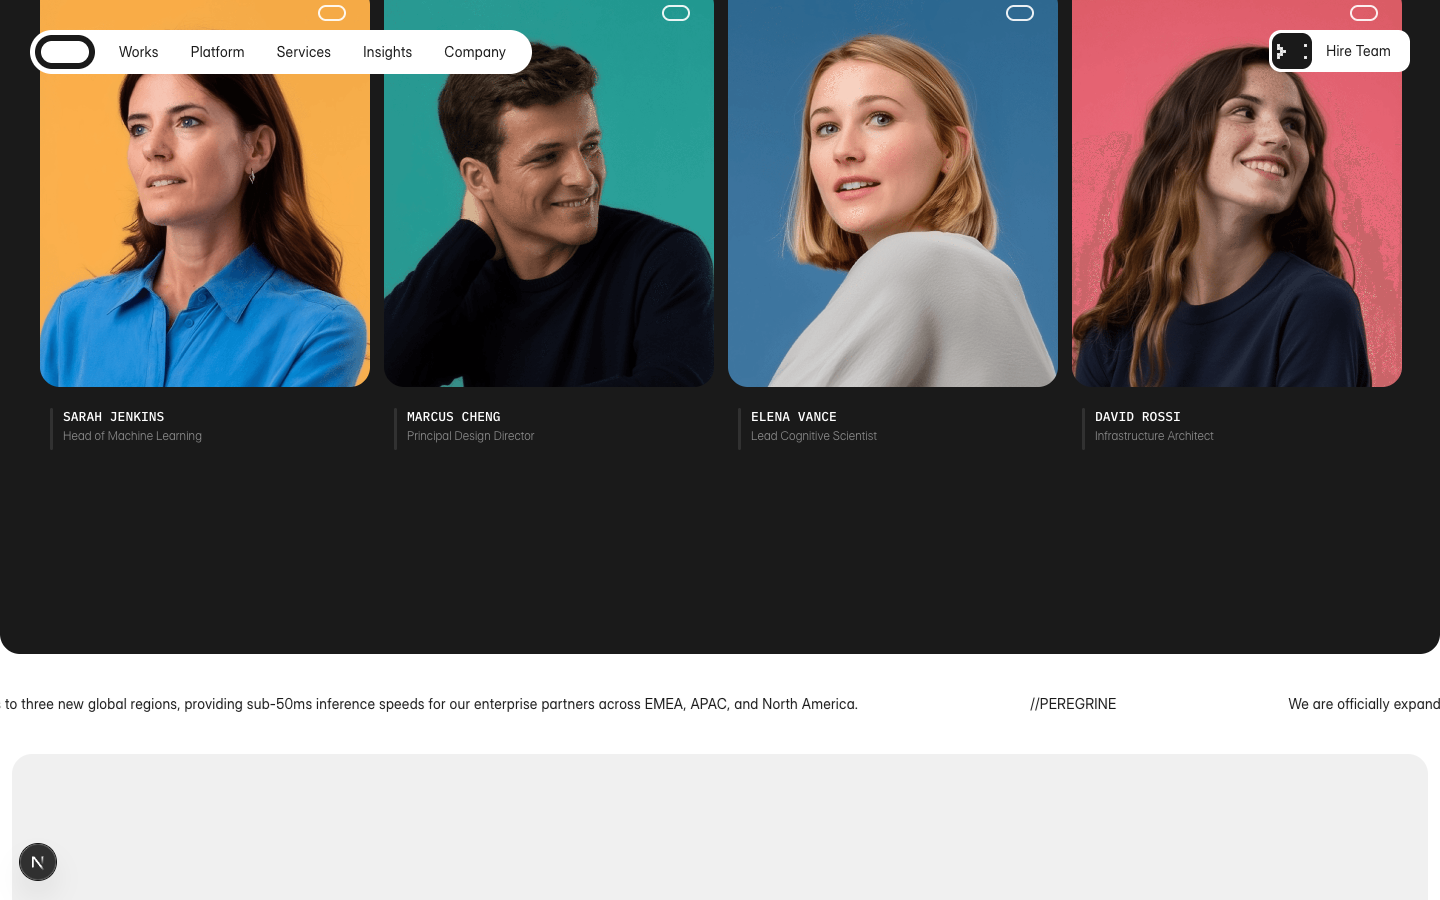
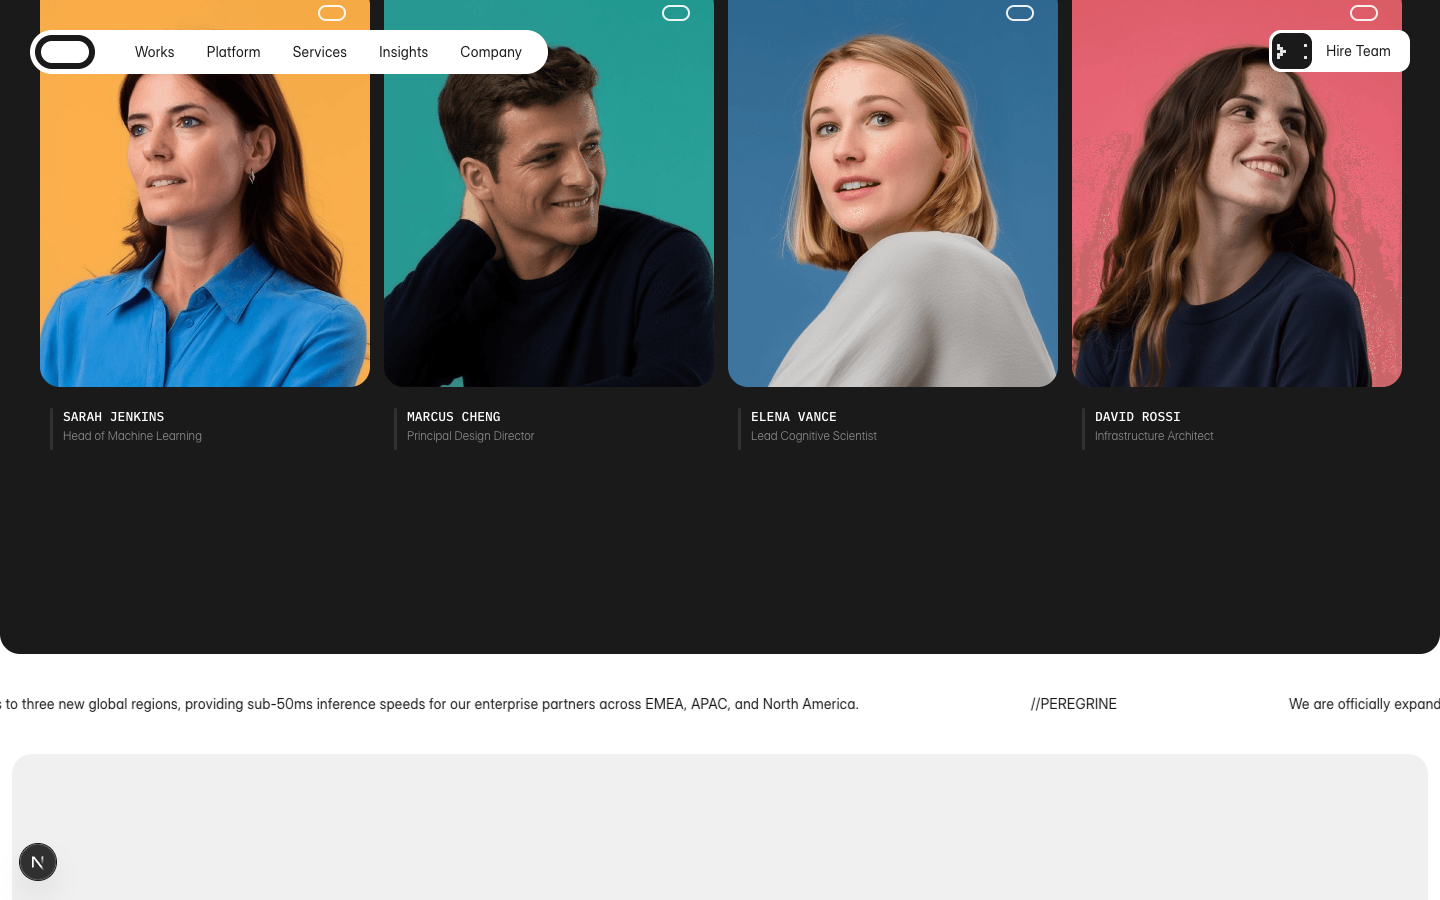
Restore the nav lockup gap
LogoPill narrowed from 76 to 60 when it became a ring, which pulled the
first link 16px left of where the reference puts it. The gap is 40.

Claude-Session: https://claude.ai/code/session_015XTVdf1Y6XSbSzvrbC9jYR

diff --git a/components/nav.tsx b/components/nav.tsx
@@ -28,7 +28,7 @@ export function Nav() {
         {/* left pill */}
         <nav
           className="pointer-events-auto flex items-center bg-white"
-          style={{ borderRadius: 100, padding: "5px 26px 5px 5px", gap: 24 }}
+          style={{ borderRadius: 100, padding: "5px 26px 5px 5px", gap: 40 }}
         >
           <Link href="#top" aria-label="Home">
             <LogoPill />
